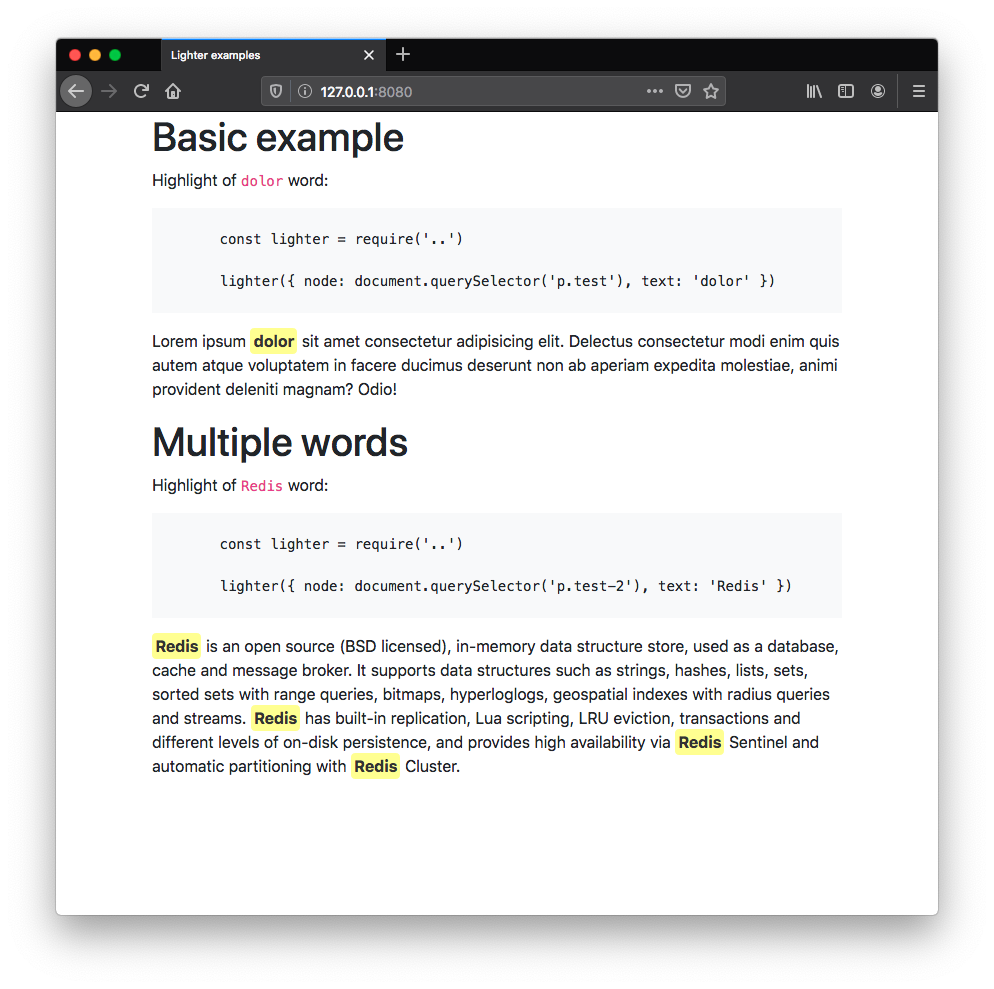
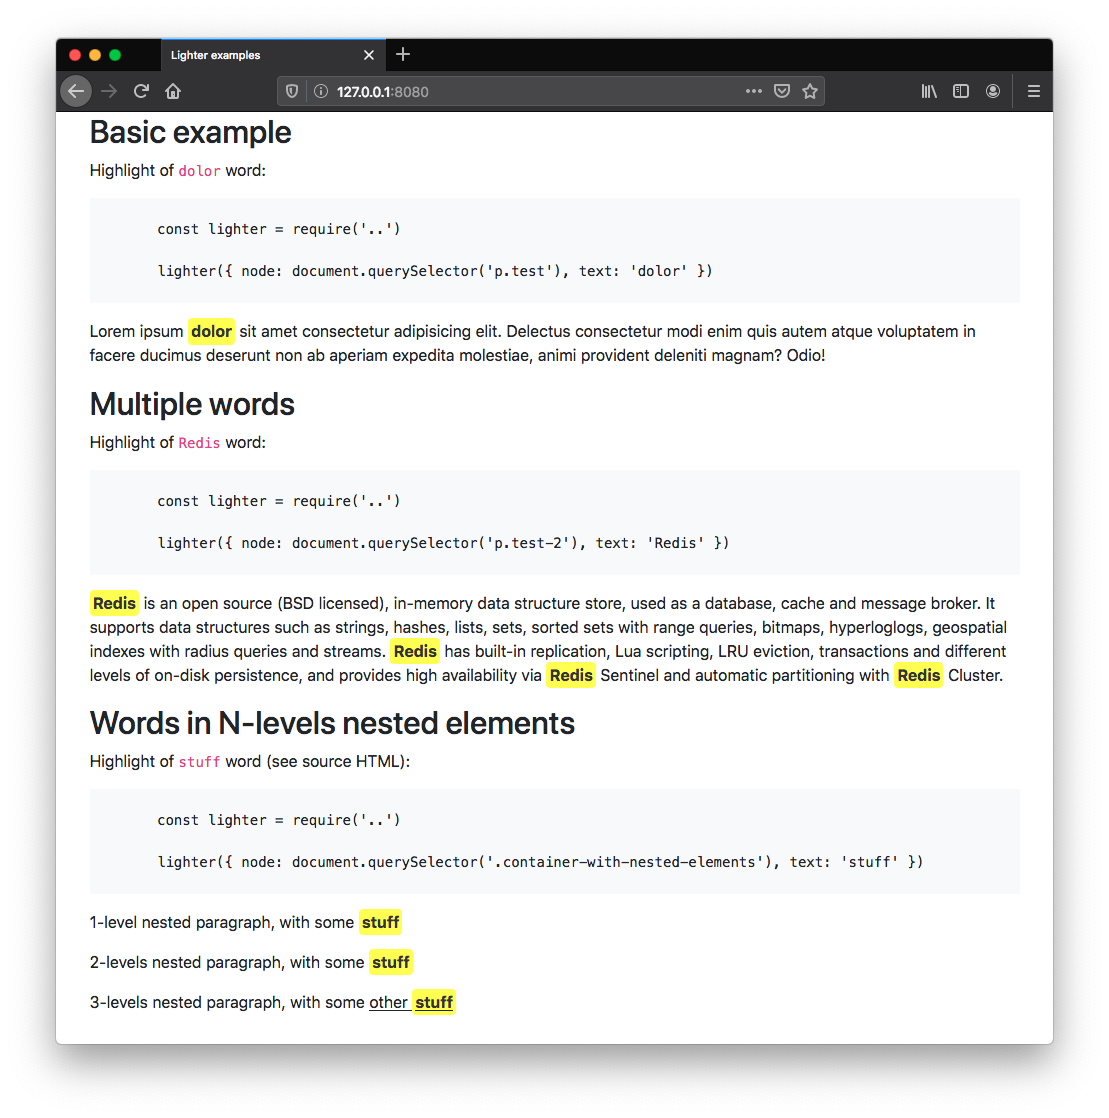
feat(examples): add example with N-levels nested elements

Changed region(s): [[0.0312, 0.0303, 0.9668, 0.9403]]

diff --git a/examples/index.html b/examples/index.html
@@ -35,7 +35,7 @@
 <body>
   <div class="container">
     <div class="example">
-      <h1>Basic example</h1>
+      <h2>Basic example</h2>
       <p>Highlight of <code>dolor</code> word:</p>
 
       <pre class="code-block"><code>
@@ -48,7 +48,7 @@
     </div>
 
     <div class="example">
-      <h1>Multiple words</h1>
+      <h2>Multiple words</h2>
       <p>Highlight of <code>Redis</code> word:</p>
 
       <pre class="code-block"><code>
@@ -62,6 +62,27 @@
       geospatial indexes with radius queries and streams. Redis has built-in replication, Lua scripting, LRU eviction,
       transactions and different levels of on-disk persistence, and provides high availability via Redis Sentinel and
       automatic partitioning with Redis Cluster.</p>
+    </div>
+
+    <div class="example">
+      <h2>Words in N-levels nested elements</h2>
+      <p>Highlight of <code>stuff</code> word (see source HTML):</p>
+
+      <pre class="code-block"><code>
+        const lighter = require('..')
+
+        lighter({ node: document.querySelector('.container-with-nested-elements'), text: 'stuff' })
+      </code></pre>
+
+      <div class="container-with-nested-elements">
+        <p>1-level nested paragraph, with some stuff</p>
+        <div class="fake-container-2">
+          <p>2-levels nested paragraph, with some stuff</p>
+          <div class="fake-container-2">
+            <p>3-levels nested paragraph, with some <span style="text-decoration: underline">other stuff</span></p>
+          </div>
+        </div>
+      </div>
     </div>
 
   </div>

diff --git a/examples/bundle.js b/examples/bundle.js
@@ -1,8 +1,9 @@
 (function(){function r(e,n,t){function o(i,f){if(!n[i]){if(!e[i]){var c="function"==typeof require&&require;if(!f&&c)return c(i,!0);if(u)return u(i,!0);var a=new Error("Cannot find module '"+i+"'");throw a.code="MODULE_NOT_FOUND",a}var p=n[i]={exports:{}};e[i][0].call(p.exports,function(r){var n=e[i][1][r];return o(n||r)},p,p.exports,r,e,n,t)}return n[i].exports}for(var u="function"==typeof require&&require,i=0;i<t.length;i++)o(t[i]);return o}return r})()({1:[function(require,module,exports){
 const lighter = require('..')
 
-lighter({ node: document.querySelector('p.test'), text: 'dolor' })
-lighter({ node: document.querySelector('p.test-2'), text: 'Redis' })
+lighter({ node: document.querySelector('.test'), text: 'dolor' })
+lighter({ node: document.querySelector('.test-2'), text: 'Redis' })
+lighter({ node: document.querySelector('.container-with-nested-elements'), text: 'stuff' })
 
 },{"..":2}],2:[function(require,module,exports){
 /* eslint-env browser */

diff --git a/examples/index.js b/examples/index.js
@@ -1,4 +1,5 @@
 const lighter = require('..')
 
-lighter({ node: document.querySelector('p.test'), text: 'dolor' })
-lighter({ node: document.querySelector('p.test-2'), text: 'Redis' })
+lighter({ node: document.querySelector('.test'), text: 'dolor' })
+lighter({ node: document.querySelector('.test-2'), text: 'Redis' })
+lighter({ node: document.querySelector('.container-with-nested-elements'), text: 'stuff' })
